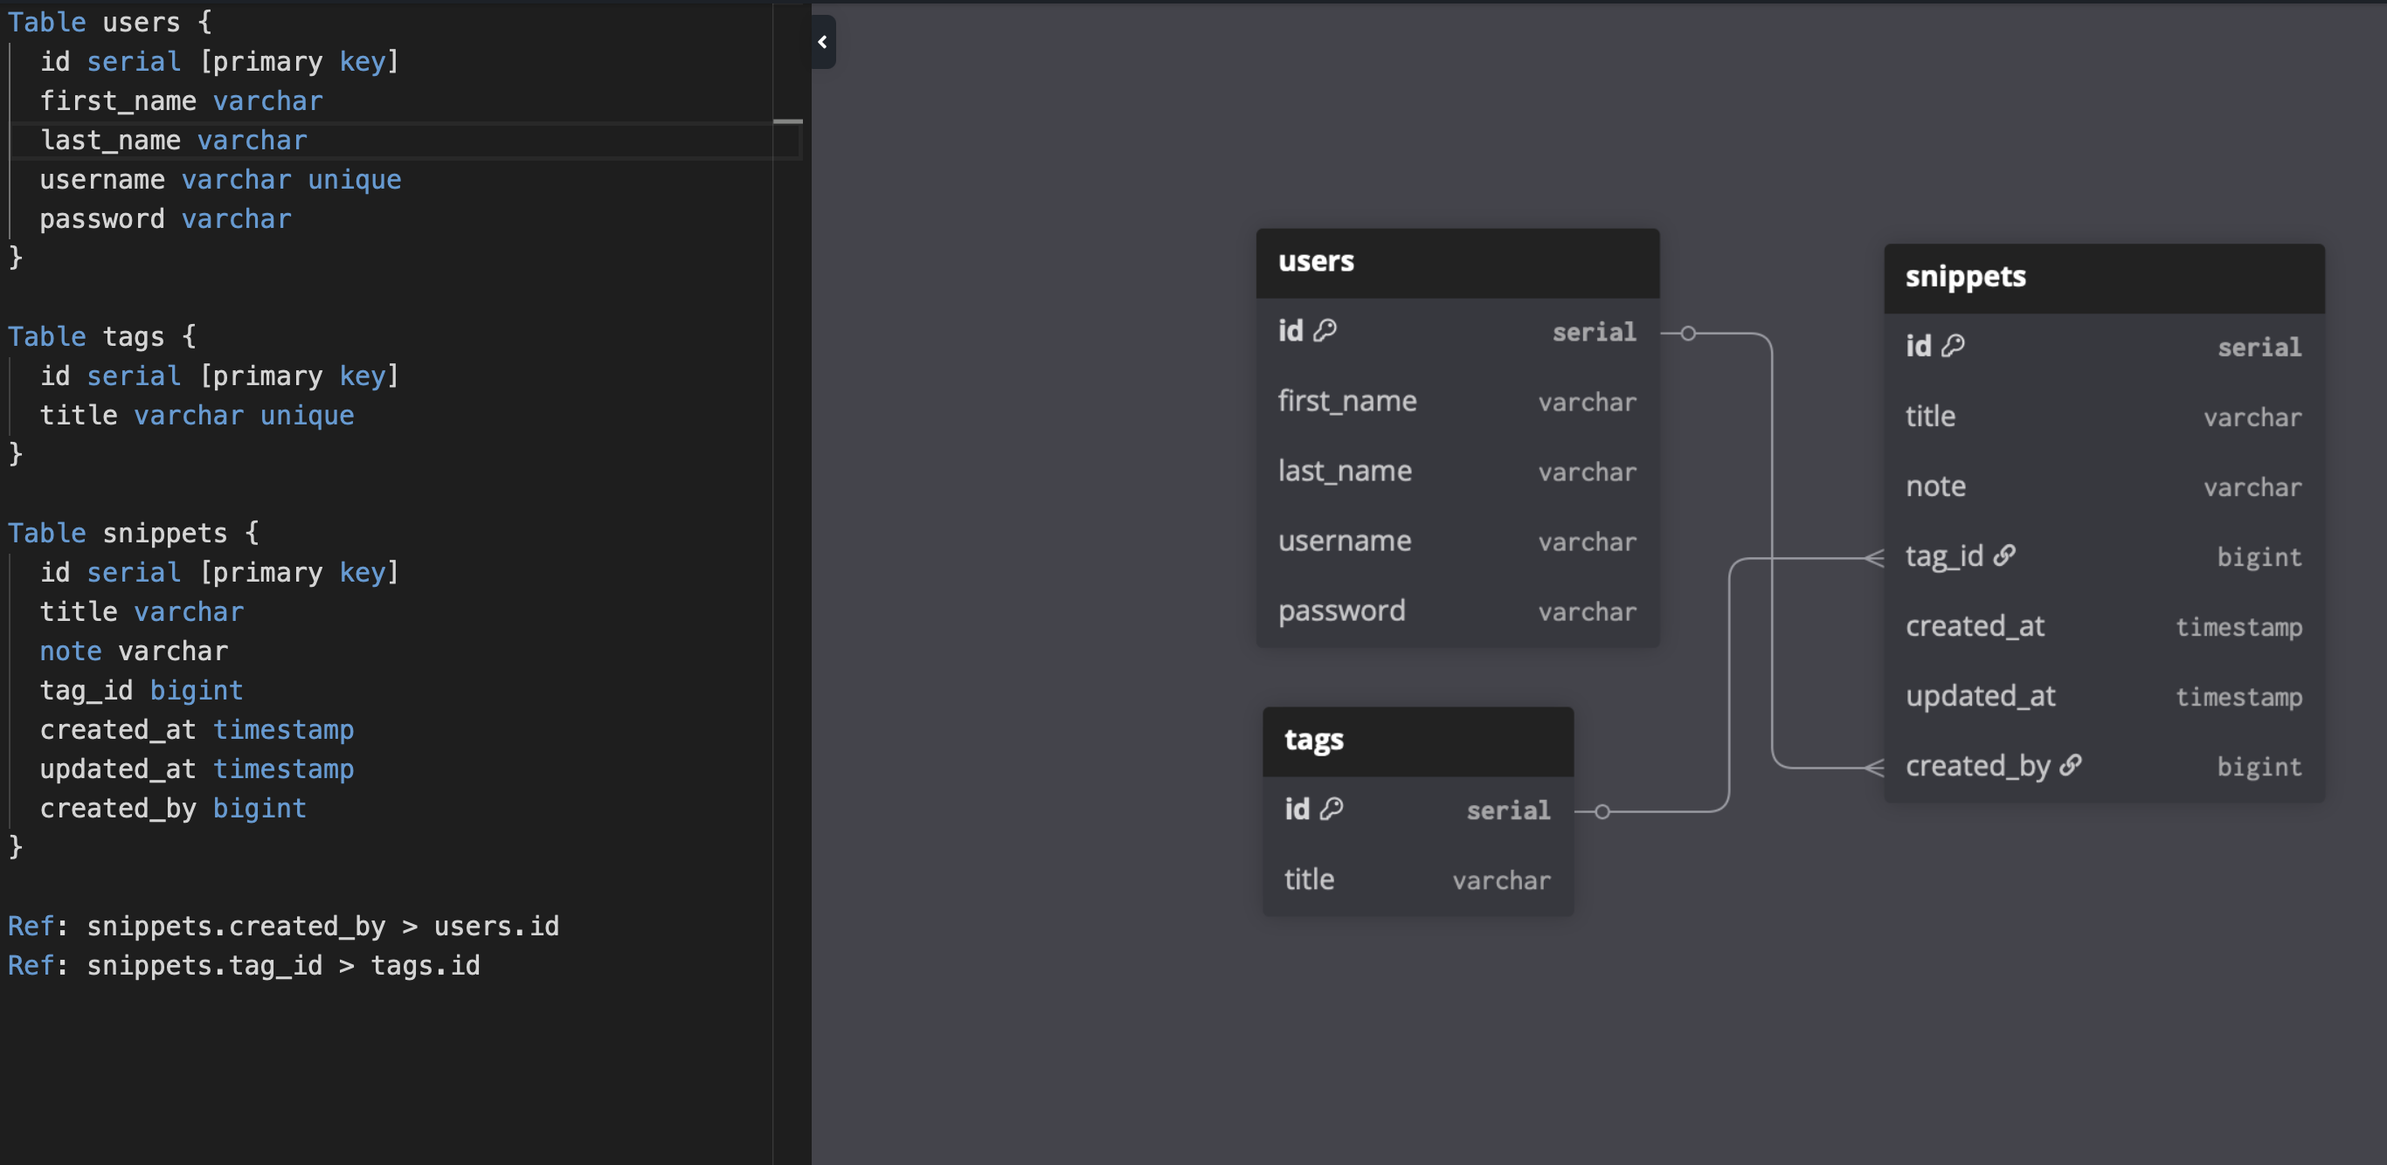
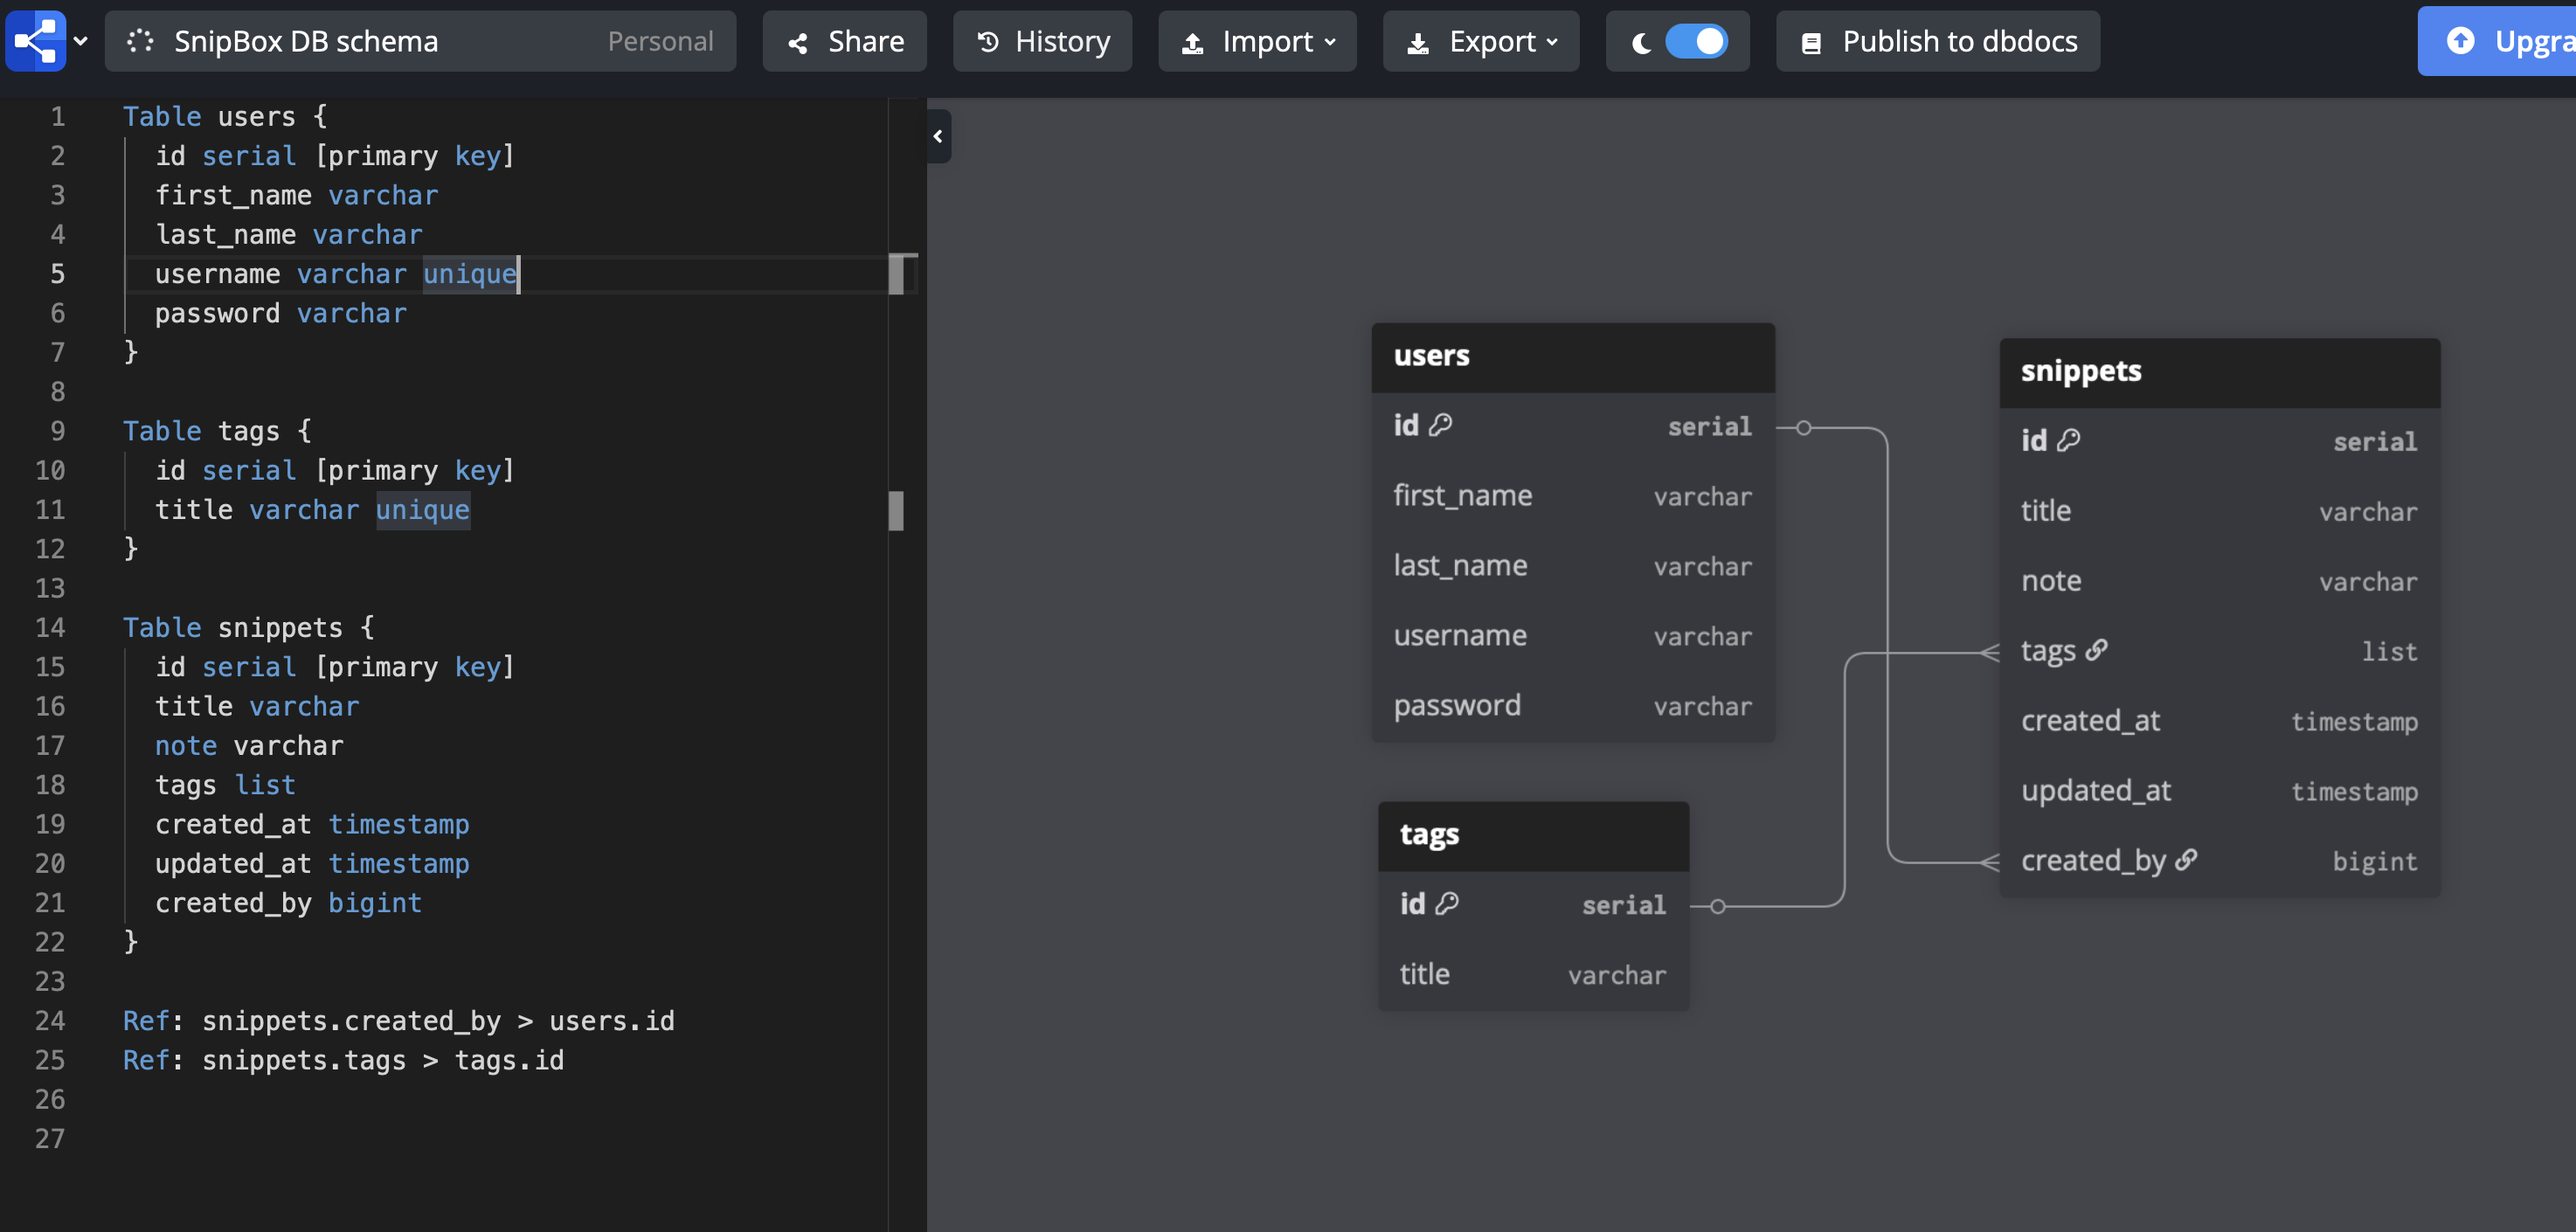
update tag field name to tags in snippet model and also update the db_schema diagram based on

diff --git a/snippets/models.py b/snippets/models.py
@@ -29,7 +29,7 @@ class Snippet(models.Model):
     """
     title = models.CharField(max_length=100)
     note = models.TextField()
-    tag = models.ManyToManyField(
+    tags = models.ManyToManyField(
         Tag,
         related_name='snippets'
     )
